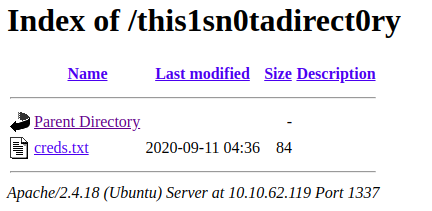
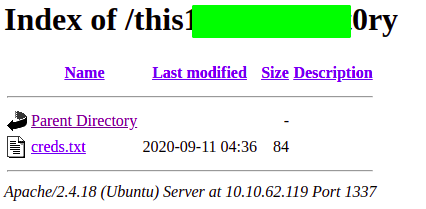
nerdherd thm changed

diff --git a/_posts/2020-11-05-nerdherd.md b/_posts/2020-11-05-nerdherd.md
@@ -282,7 +282,7 @@ A-well-a bird, bird, b-bird's the word
 Surely the song focuses on the bird a lot and I thought well that might be the key that I am looking for.
 
 ### Decrypting the cipher
-With key as **bird**, the ciphertext **fijbxslz** gives the plaintext **easywkuw**. Looking at the plaintext, the key might be incomplete as a portion is correctly decoded but not all of it. So, I used **birdistheword** as the key and with that as key the plaintext becomes **easypass**. Now, that looks like a password but we dont know what it is for.
+With key as **bird**, the ciphertext **fijbxslz** gives the plaintext **easywkuw**. Looking at the plaintext, the key might be incomplete as a portion is correctly decoded but not all of it. So, I used **birdistheword** as the key and with that as key the plaintext becomes **<redacted>**. Now, that looks like a password but we dont know what it is for.
 
 ## Directory Bruteforcing
 ```console
@@ -355,7 +355,7 @@ cibartowski
 ### Passwords
 ```
 hehegou<j][
-easypass
+<redacted>
 ```
 And, we still have a service to enumerate. ie SMB
 
@@ -391,7 +391,7 @@ Looks like without the valid username and password, we cant list the share conte
 ## Contents of passwords.txt
 ```console
 hehegou<j][
-easypass
+<redacted>
 cibartowski
 pub
 nerdherd_classified
@@ -588,7 +588,7 @@ Enter WORKGROUP\chuck's password:
 Try "help" to get a list of possible commands.
 smb: \> 
 ```
-And we login with `chuck:easypass`.
+And we login with `chuck:<redacted>`.
 
 ```console
 smb: \> dir
@@ -606,7 +606,7 @@ smb: \>
 local@local:~/Documents/tryhackme/nerdherd$ cat secr3t.txt 
 Ssssh! don't tell this anyone because you deserved it this far:
 
-        check out "/this1sn0tadirect0ry"
+        check out "/this******ect0ry"
 
 Sincerely,
         0xpr0N3rd
@@ -614,16 +614,16 @@ Sincerely,
 ```
 We got a new path on the webserver.
 
-### Checking /this1sn0tadirect0ry
+### Checking /this\*\*\*\*\*\*rect0ry
 ![5](/assets/images/thm/nerdherd/5.png)
 ### Content of creds.txt
 ```console
-local@local:~/Documents/tryhackme/nerdherd$ curl 10.10.62.119:1337/this1sn0tadirect0ry/creds.txt
+local@local:~/Documents/tryhackme/nerdherd$ curl 10.10.62.119:1337/this******0ry/creds.txt
 alright, enough with the games.
 
 here, take my ssh creds:
 
-        chuck : th1s41ntmypa5s
+        chuck : th1******a5s
 ```
 Finally we get the SSH creds for the user chuck.
 
